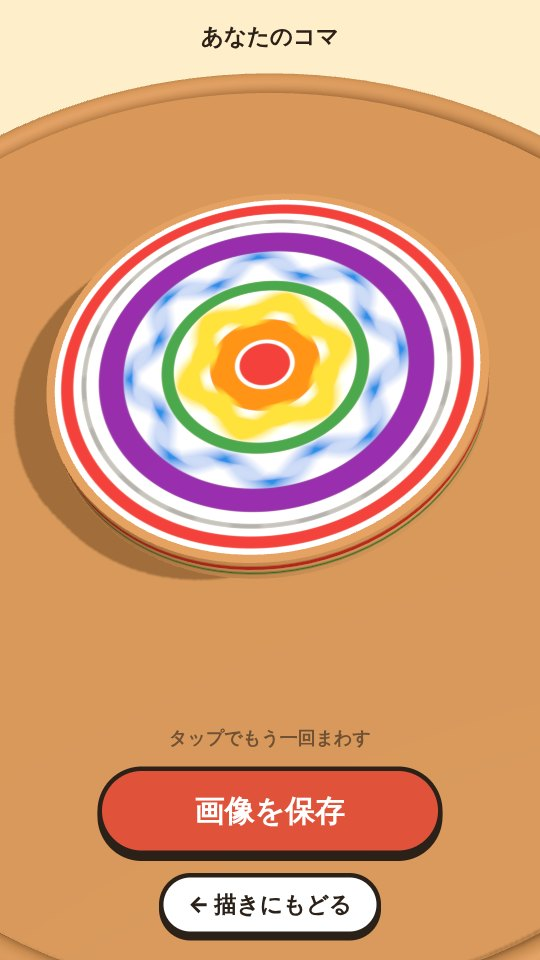
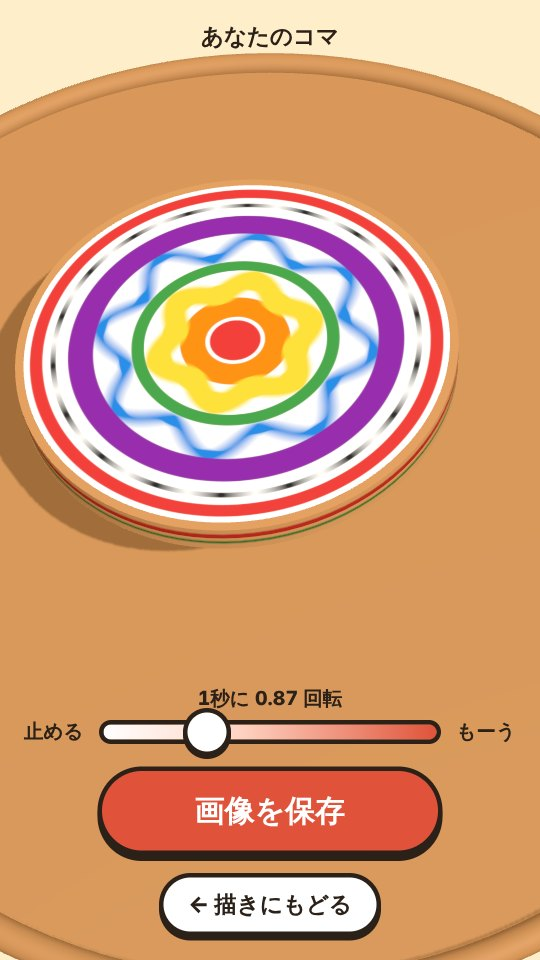
くるくるコマ描き：3Dの回る速さをスライダーで選べるようにし、減速せず一定の速さで回るようにする
Claude-Session: https://claude.ai/code/session_012oTrt8xFJfV9dBhz7TSa7x

diff --git a/games/kuru-koma/index.html b/games/kuru-koma/index.html
@@ -18,7 +18,7 @@
 <script>
 (function(){ if (/(^|\.)nkworks-games\.com$/.test(location.hostname)) { var s=document.createElement('script'); s.async=true; s.crossOrigin='anonymous'; s.src='https://pagead2.googlesyndication.com/pagead/js/adsbygoogle.js?client=ca-pub-2073267239630350'; document.head.appendChild(s); } })();
 </script>
-<script type="application/ld+json">{"@context": "https://schema.org", "@type": "VideoGame", "name": "くるくるコマ描き", "url": "https://nkworks-games.com/kuru-koma/", "description": "くるくる回りつづけるコマの面にペンを当てて、もようを描くゲームです。指をじっと置いておけば輪になり、ずらせばうずまき、内と外にゆらせば花びらのような波になります。色は8色、ペンの太さは3段階、回る速さは4段階から選べます。描いたコマは3Dで勢いよく回して、色がまざって見える様子を眺められます。", "image": "https://nkworks-games.com/games/kuru-koma/thumb.jpg", "datePublished": "2026-10-31", "gamePlatform": "Web browser", "applicationCategory": "Game", "inLanguage": "ja", "author": {"@type": "Organization", "name": "N.K. Works", "url": "https://nkworks-games.com/"}, "offers": {"@type": "Offer", "price": "0", "priceCurrency": "JPY"}}</script>
+<script type="application/ld+json">{"@context": "https://schema.org", "@type": "VideoGame", "name": "くるくるコマ描き", "url": "https://nkworks-games.com/kuru-koma/", "description": "くるくる回りつづけるコマの面にペンを当てて、もようを描くゲームです。指をじっと置いておけば輪になり、ずらせばうずまき、内と外にゆらせば花びらのような波になります。色は8色、ペンの太さは3段階、回る速さは4段階から選べます。描いたコマは3Dで、止めた状態からとても速い回転まで、好きな速さで回して眺められます。", "image": "https://nkworks-games.com/games/kuru-koma/thumb.jpg", "datePublished": "2026-10-31", "gamePlatform": "Web browser", "applicationCategory": "Game", "inLanguage": "ja", "author": {"@type": "Organization", "name": "N.K. Works", "url": "https://nkworks-games.com/"}, "offers": {"@type": "Offer", "price": "0", "priceCurrency": "JPY"}}</script>
 </head>
 <body>
 
@@ -34,12 +34,12 @@
 <div class="play-row"><a class="btn" href="/kuru-koma/">▶ ブラウザで遊ぶ（無料）</a><span class="muted">インストールなし。リンクを開くとすぐ始まります。</span></div>
 <ul class="facts"><li><b>遊べる所</b><span>スマホ（縦画面）・パソコン</span></li><li><b>1回の長さ</b><span>好きなだけ（1枚 1〜3分ほど）</span></li><li><b>公開日</b><span>2026年10月31日</span></li><li><b>料金</b><span>無料（広告あり）</span></li></ul>
 <h2>どんなゲーム？</h2>
-<p>くるくる回りつづけるコマの面にペンを当てて、もようを描くゲームです。指をじっと置いておけば輪になり、ずらせばうずまき、内と外にゆらせば花びらのような波になります。色は8色、ペンの太さは3段階、回る速さは4段階から選べます。描いたコマは3Dで勢いよく回して、色がまざって見える様子を眺められます。</p>
-<div class="shots"><figure><img src="/games/kuru-koma/title.jpg" alt="くるくるコマ描きのタイトル画面。回るコマにペンが当たって、にじの輪を1本ずつ描いている" loading="lazy" width="540" height="960"><figcaption>くるくるコマ描きのタイトル画面。回るコマにペンが当たって、にじの輪を1本ずつ描いている</figcaption></figure><figure><img src="/games/kuru-koma/play.jpg" alt="描く画面。輪や波の輪を重ねたコマのふちに赤いペンを当てて、外側の輪を描いているところ。下に色・太さ・回る速さのボタンが並んでいる" loading="lazy" width="540" height="960"><figcaption>描く画面。輪や波の輪を重ねたコマのふちに赤いペンを当てて、外側の輪を描いているところ。下に色・太さ・回る速さのボタンが並んでいる</figcaption></figure><figure><img src="/games/kuru-koma/koma.jpg" alt="「3Dで回す」の画面。お盆の上で回る3Dのコマ。速く回っているので、青い波の輪がブレて色がまざって見える" loading="lazy" width="540" height="960"><figcaption>「3Dで回す」の画面。お盆の上で回る3Dのコマ。速く回っているので、青い波の輪がブレて色がまざって見える</figcaption></figure></div>
-<h2>遊び方</h2><ol class="steps"><li>タイトル画面で「描きはじめる」を押します。</li><li>白いコマはずっと回っています。指でコマをおさえると、そこにペン先が当たり、回ったぶんだけ線がつきます。パソコンではマウスのボタンをおしたままにします。</li><li>下のボタンで、色（8色）・ペンの太さ（細い・ふつう・太い）・回る速さ（止める・ゆっくり・ふつう・はやい）を変えられます。</li><li>描けたら「3Dで回す」を押します。コマが勢いよく回り、だんだん遅くなって描いた模様が見えてきます。画面をタップすると、もう一回まわります。</li><li>「画像を保存」で描いたコマの絵を保存できます。「描きにもどる」で続きを描けます。</li></ol>
+<p>くるくる回りつづけるコマの面にペンを当てて、もようを描くゲームです。指をじっと置いておけば輪になり、ずらせばうずまき、内と外にゆらせば花びらのような波になります。色は8色、ペンの太さは3段階、回る速さは4段階から選べます。描いたコマは3Dで、止めた状態からとても速い回転まで、好きな速さで回して眺められます。</p>
+<div class="shots"><figure><img src="/games/kuru-koma/title.jpg" alt="くるくるコマ描きのタイトル画面。回るコマにペンが当たって、にじの輪を1本ずつ描いている" loading="lazy" width="540" height="960"><figcaption>くるくるコマ描きのタイトル画面。回るコマにペンが当たって、にじの輪を1本ずつ描いている</figcaption></figure><figure><img src="/games/kuru-koma/play.jpg" alt="描く画面。輪や波の輪を重ねたコマのふちに赤いペンを当てて、外側の輪を描いているところ。下に色・太さ・回る速さのボタンが並んでいる" loading="lazy" width="540" height="960"><figcaption>描く画面。輪や波の輪を重ねたコマのふちに赤いペンを当てて、外側の輪を描いているところ。下に色・太さ・回る速さのボタンが並んでいる</figcaption></figure><figure><img src="/games/kuru-koma/koma.jpg" alt="「3Dで回す」の画面。お盆の上で回る3Dのコマ。青い波の輪が回転でブレて色がまざって見える。下に回る速さのスライダーがある" loading="lazy" width="540" height="960"><figcaption>「3Dで回す」の画面。お盆の上で回る3Dのコマ。青い波の輪が回転でブレて色がまざって見える。下に回る速さのスライダーがある</figcaption></figure></div>
+<h2>遊び方</h2><ol class="steps"><li>タイトル画面で「描きはじめる」を押します。</li><li>白いコマはずっと回っています。指でコマをおさえると、そこにペン先が当たり、回ったぶんだけ線がつきます。パソコンではマウスのボタンをおしたままにします。</li><li>下のボタンで、色（8色）・ペンの太さ（細い・ふつう・太い）・回る速さ（止める・ゆっくり・ふつう・はやい）を変えられます。</li><li>描けたら「3Dで回す」を押します。3Dのコマが回ります。下のスライダーで、止める〜もーう（とても速い）の間で回る速さを自由に変えられ、選んだ速さのまま回りつづけます。</li><li>「画像を保存」で描いたコマの絵を保存できます。「描きにもどる」で続きを描けます。</li></ol>
 <h2>ルール</h2><ul><li>点数や制限時間はありません。好きなだけ描けます。</li><li>白のペン（「けす」）は消しゴムの代わりです。上からなぞると白くなります。</li><li>「戻す」で、おさえてからはなすまでの線を1本ずつ取り消せます。「全部消す」のあとでも「戻す」でもとにもどせます。パソコンでは Ctrl+Z（Macは ⌘+Z）でも戻せます。</li><li>回る速さを「止める」にすると、止まった面にふつうの絵も描けます。</li><li>コマのまん中まで、どこにでも描けます。</li></ul>
 <h2>うまくなるコツ</h2><ul><li>指を動かさずに1周おさえると、きれいな輪になります。速さが「ふつう」なら1周は約1.4秒です。</li><li>おさえたまま指をゆっくり外へずらすと、うずまきになります。ずらすのが速いほど、うずの間が広がります。</li><li>おさえたまま指を小さく内・外にゆらすと、花びらのような波の輪になります。</li><li>太いペンで少しずつずらしながら回すと、太い帯がぬれます。まん中をおさえると丸い点になります。</li><li>「止める」で止めて点や線を描いてから回すと、3Dで回したときに色のまざった輪に見えます。</li></ul>
-<h2>見どころ</h2><ul><li>「3Dで回す」では、速く回っているあいだ模様がブレて色がまざり、輪のように見えます。だんだん遅くなると、描いた模様がはっきり見えてきます。</li><li>3Dのコマは、遅くなるにつれて少しかたむいて首をふり、お盆の上をふらふら動きます。</li><li>タイトル画面では、コマがにじの輪を1本ずつ描いていくお手本が流れます。</li></ul>
+<h2>見どころ</h2><ul><li>「3Dで回す」でスライダーを右に寄せて速く回すと、模様がブレて色がまざり、輪のように見えます。遅くすると、描いた模様がはっきり見えてきます。</li><li>3Dのコマは、ゆっくり回すほど少しかたむいて首をふり、お盆の上をふらふら動きます。</li><li>タイトル画面では、コマがにじの輪を1本ずつ描いていくお手本が流れます。</li></ul>
 <h2>作者のひとこと</h2><div class="note"><p>回っているコマにペンを当てるだけで、輪やうずまきが描けるゲームにしました。点数も制限時間もないので、色を重ねて好きな模様を作ってください。描いたコマは3Dで回せるので、速く回して色がまざって見える様子も眺めてみてください。</p></div>
 <div class="play-row"><a class="btn" href="/kuru-koma/">▶ くるくるコマ描きを遊ぶ</a></div>
 <h2>にている遊びのゲーム</h2><ul class="grid"><li><a data-google-vignette="false" class="card" href="/games/soragaki/"><div class="th"><img src="/games/soragaki/thumb.jpg" alt="" loading="lazy" width="600" height="315"></div><div class="tx"><b>ソラガキ</b><span>飛行機雲で、空にお題の絵を描こう</span><em>2026年10月13日 公開</em></div></a></li><li><a data-google-vignette="false" class="card" href="/games/kokumindo/"><div class="th"><img src="/games/kokumindo/thumb.jpg" alt="" loading="lazy" width="600" height="315"></div><div class="tx"><b>国民度チェック</b><span>日の丸を一筆で描いて、国民度を測る</span><em>2026年10月29日 公開</em></div></a></li><li><a data-google-vignette="false" class="card" href="/games/umbrerun/"><div class="th"><img src="/games/umbrerun/thumb.jpg" alt="" loading="lazy" width="600" height="315"></div><div class="tx"><b>アンブレラン</b><span>描いた傘1本で、山の上の会社まで走れ</span><em>2026年10月11日 公開</em></div></a></li></ul>

diff --git a/kuru-koma/index.html b/kuru-koma/index.html
@@ -69,7 +69,12 @@ button{font-family:inherit;cursor:pointer;color:#2b2118;touch-action:manipulatio
 #vTop{position:absolute;left:0;right:0;top:0;padding:max(14px,env(safe-area-inset-top)) 16px 0;text-align:center}
 #vLabel{font-size:15px;font-weight:800}
 #vBtns{position:absolute;left:0;right:0;bottom:0;padding:0 16px max(16px,env(safe-area-inset-bottom));text-align:center;pointer-events:auto}
-#vTap{font-size:12px;font-weight:800;opacity:.6;margin-bottom:10px}
+#vSpTxt{font-size:13px;font-weight:800;margin-bottom:4px;font-variant-numeric:tabular-nums}
+.vsp{display:flex;align-items:center;gap:10px;max-width:380px;margin:0 auto 14px;font-size:13px;font-weight:800}
+.vsp input{flex:1;min-width:0;height:16px;-webkit-appearance:none;appearance:none;border:3px solid #2b2118;border-radius:99px;background:linear-gradient(90deg,#fff,#ffd5c4 40%,#e0533a)}
+.vsp input::-webkit-slider-thumb{-webkit-appearance:none;width:32px;height:32px;border-radius:50%;border:3px solid #2b2118;background:#fff;box-shadow:0 2px 0 #2b2118}
+.vsp input::-moz-range-thumb{width:26px;height:26px;border-radius:50%;border:3px solid #2b2118;background:#fff}
+.vsp input:focus-visible{outline:3px solid #e0533a;outline-offset:3px}
 </style>
 </head>
 <body>
@@ -102,7 +107,8 @@ button{font-family:inherit;cursor:pointer;color:#2b2118;touch-action:manipulatio
 <div id="view" class="hidden">
   <div id="vTop"><div id="vLabel">あなたのコマ</div></div>
   <div id="vBtns">
-    <div id="vTap">タップでもう一回まわす</div>
+    <div id="vSpTxt"></div>
+    <div class="vsp"><span>止める</span><input type="range" id="vSpeed" min="0" max="100" aria-label="回る速さ"><span>もーう</span></div>
     <div id="vFree"><button class="big" id="vSave">画像を保存</button><div class="row"><button class="sml" id="vBack">← 描きにもどる</button></div></div>
   </div>
 </div>
@@ -120,7 +126,7 @@ const CONFIG = {
   PEN_DEF_W: 1,                 // 最初の太さ
   STEP_ANG: 0.03,               // 線を刻む角度（ラジアン）。小さいほど輪がなめらか
   DISK: { MAXR: 210, SIDE: 14, RIM: 0.065 }, // 描く画面のコマの最大半径(px)・左右の余白(px)・ふちの太さ（半径比）
-  V3: { W0: 70, WMIN: 2.6, DECAY: 1.3, EXPO: 0.07, TILT: [0.03, 0.15], PREC: 2.4, WANDER: 0.1, FOV: 34, ELEV: 0.98, FIT: 1.3, DPR: 2, SHADOW: 1024 }, // 3D：最初の回転(rad/秒)・最後の回転・減速の時間・ブレの強さ・傾き(速い時/遅い時)・首振り・ふらつき・画角・見下ろす角度・写す大きさ・画質・影
+  V3: { VMAX: 70, V_DEF: 30, ACC: 3, BLUR0: 2.6, EXPO: 0.07, TILT: [0.03, 0.15], TILT_W: 30, PREC: 2.4, WANDER: 0.1, FOV: 34, ELEV: 0.98, FIT: 1.3, DPR: 2, SHADOW: 1024 }, // 3D：いちばん速い回転(rad/秒)・最初のスライダー位置(0〜100)・速さの追いつきやすさ・ブレ始める速さ・ブレの強さ・傾き(速い時/遅い時)・傾きが最小になる速さ・首振り・ふらつき・画角・見下ろす角度・写す大きさ・画質・影
   VOL: 0.7,                     // 全体の音量
   SAVE_KEY: 'kurukoma.v1',
   FOLLOW_X: 'vyaPudzd1E54661',  // タイトル画面の「作者をフォロー」のXアカウント
@@ -299,18 +305,18 @@ function fit3D() {
   cam.setViewOffset(w, h, 0, (bot - top) / 2, w, h); cam.updateProjectionMatrix();
 }
 function step3D() {
-  const V3 = CONFIG.V3, k = clamp((V.w - V3.WMIN) / (V3.W0 - V3.WMIN), 0, 1);
+  const V3 = CONFIG.V3, s = clamp(V.w / 2, 0, 1), k = clamp(V.w / V3.TILT_W, 0, 1); // s：止まりかけは首ふり・ふらつきも止める
   E3.spin.rotation.y = -V.ang;
-  E3.tilt.quaternion.setFromAxisAngle(E3.axis.set(Math.cos(V.psi), 0, Math.sin(V.psi)), lerp(V3.TILT[1], V3.TILT[0], Math.sqrt(k)));
-  E3.root.position.set(Math.cos(V.psi * 0.31) * V3.WANDER, 0, Math.sin(V.psi * 0.23) * V3.WANDER * 0.7);
-  E3.blur.value = Math.min(TAU, Math.max(0, V.w - V3.WMIN) * V3.EXPO);
+  E3.tilt.quaternion.setFromAxisAngle(E3.axis.set(Math.cos(V.psi), 0, Math.sin(V.psi)), lerp(V3.TILT[1], V3.TILT[0], Math.sqrt(k)) * s);
+  E3.root.position.set(Math.cos(V.psi * 0.31) * V3.WANDER * s, 0, Math.sin(V.psi * 0.23) * V3.WANDER * 0.7 * s);
+  E3.blur.value = Math.min(TAU, Math.max(0, V.w - V3.BLUR0) * V3.EXPO);
   E3.R.render(E3.S, E3.cam);
 }
 
 // ===== [SEC:STATE] =====
 const cv = $('c'), ctx = cv.getContext('2d');
 const L = { W: 0, H: 0, dpr: 1, cx: 0, cy: 0, R: 100 };
-const G = { scene: 'title', color: 0, width: CONFIG.PEN_DEF_W, speed: CONFIG.SPEED_DEF };
+const G = { scene: 'title', color: 0, width: CONFIG.PEN_DEF_W, speed: CONFIG.SPEED_DEF, v3: CONFIG.V3.V_DEF }; // v3：3Dの速さのスライダー(0〜100)
 const SP = { th: 0, w: 0 };                 // 描く画面のコマの角度・回転の速さ(rad/秒)
 const P = { down: false, id: -1, x: 0, y: 0, px: 0, py: 0, hx: 0, hy: 0, hover: false, mouse: false, touch: false, lx: 0, ly: 0 };
 const V = { w: 0, ang: 0, psi: 0 }; // 3Dで回す画面
@@ -357,12 +363,13 @@ function enterDraw() { hideAll(); show('drawUI', true); G.scene = 'draw'; layout
 function showView() {
   if (P.down) return;
   hideAll(); G.scene = 'view'; show('view', true);
-  Object.assign(V, { w: CONFIG.V3.W0, ang: SP.th, psi: 0 });
+  Object.assign(V, { w: SP.w, ang: SP.th, psi: 0 });
   if (E3.ok) enter3D();
   sfx('spin');
 }
 function viewStep(dt) {
-  const V3 = CONFIG.V3; V.w = V3.WMIN + (V.w - V3.WMIN) * Math.exp(-dt / V3.DECAY); V.ang += V.w * dt; V.psi += dt * V3.PREC;
+  const V3 = CONFIG.V3, tw = v3w(); V.w += (tw - V.w) * Math.min(1, dt * V3.ACC); if (Math.abs(V.w - tw) < 0.01) V.w = tw; // 選んだ速さで回りつづける
+  V.ang += V.w * dt; V.psi += dt * V3.PREC * clamp(V.w / 2, 0, 1);
   if (E3.ok) step3D();
   else { // 3Dが使えない時：真上から回す
     const g = ctx, top = $('vTop').getBoundingClientRect().bottom, bot = $('vBtns').getBoundingClientRect().top;
@@ -370,7 +377,8 @@ function viewStep(dt) {
     drawTop2D(g, L.W / 2, (top + bot) / 2, Math.max(40, Math.min(L.W * 0.4, (bot - top) / 2 * 0.85)), V.ang, D.cv);
   }
 }
-function respin() { if (G.scene !== 'view') return; ac(); V.w = CONFIG.V3.W0; sfx('spin'); }
+const v3w = () => CONFIG.V3.VMAX * (G.v3 / 100) ** 2; // スライダー → 回る速さ(rad/秒)。遅い側を細かく選べるように2乗
+function v3Label() { const r = v3w() / TAU; $('vSpTxt').textContent = r < 0.005 ? '止まっています' : `1秒に ${r < 1 ? r.toFixed(2) : r.toFixed(1)} 回転`; }
 function saveImage() {
   const S = 1080, c = mkCv(S, S), g = c.getContext('2d');
   g.fillStyle = BG; g.fillRect(0, 0, S, S); drawTop2D(g, S / 2, S / 2 - 30, S * 0.39, 0, D.cv);
@@ -404,11 +412,13 @@ $('clearBtn').onclick = () => { if (P.down || !D.strokes.length) return; D.clear
 $('doneBtn').onclick = () => { sfx('tap'); showView(); };
 $('vSave').onclick = () => { sfx('tap'); saveImage(); };
 $('vBack').onclick = () => { sfx('tap'); enterDraw(); };
+$('vSpeed').oninput = () => { G.v3 = +$('vSpeed').value; v3Label(); };
+$('vSpeed').onchange = () => sfx('pick');
+$('vSpeed').value = G.v3; v3Label();
 $('muteBtn').onclick = () => { SV.mute = !SV.mute; writeSave(); ac(); if (master) master.gain.value = SV.mute ? 0 : CONFIG.VOL; $('muteBtn').classList.toggle('off', SV.mute); };
 
 // ===== [SEC:INPUT] =====
 cv.addEventListener('pointerdown', e => {
-  if (G.scene === 'view') { respin(); return; }
   if (!canDraw() || P.down) return;
   ac(); e.preventDefault(); try { cv.setPointerCapture(e.pointerId); } catch (er) {}
   startPen(e.clientX, e.clientY, e.pointerId);
@@ -420,7 +430,6 @@ cv.addEventListener('pointermove', e => {
 const penUp = e => { if (P.down && e.pointerId === P.id) { P.x = e.clientX; P.y = e.clientY; endPen(); } };
 cv.addEventListener('pointerup', penUp); cv.addEventListener('pointercancel', penUp);
 cv.addEventListener('pointerleave', () => { P.hover = false; });
-$('c3').addEventListener('pointerdown', respin);
 addEventListener('keydown', e => { if (G.scene === 'draw' && (e.ctrlKey || e.metaKey) && e.key === 'z') { e.preventDefault(); $('undoBtn').click(); } });
 
 // ===== [SEC:LOOP] =====
